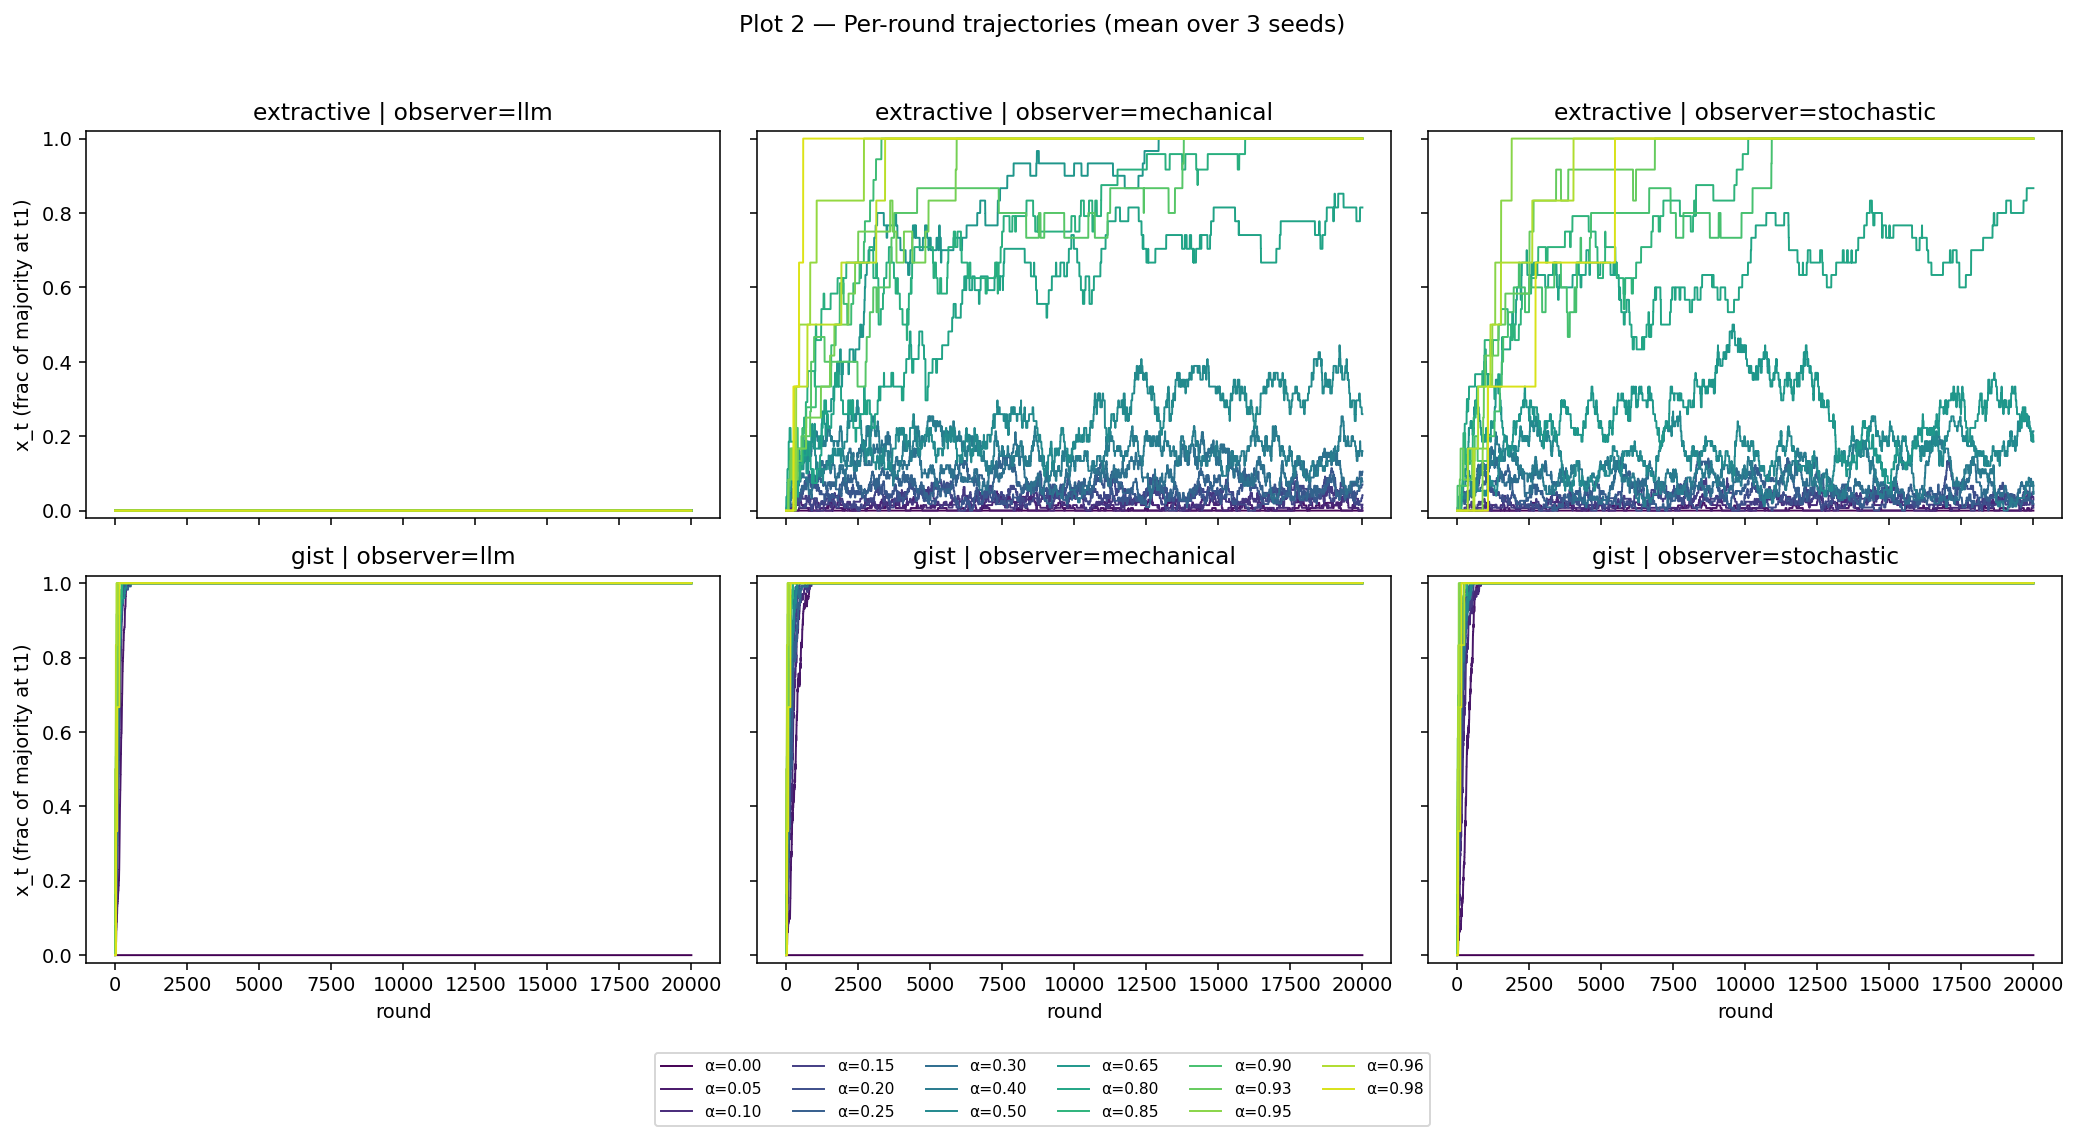
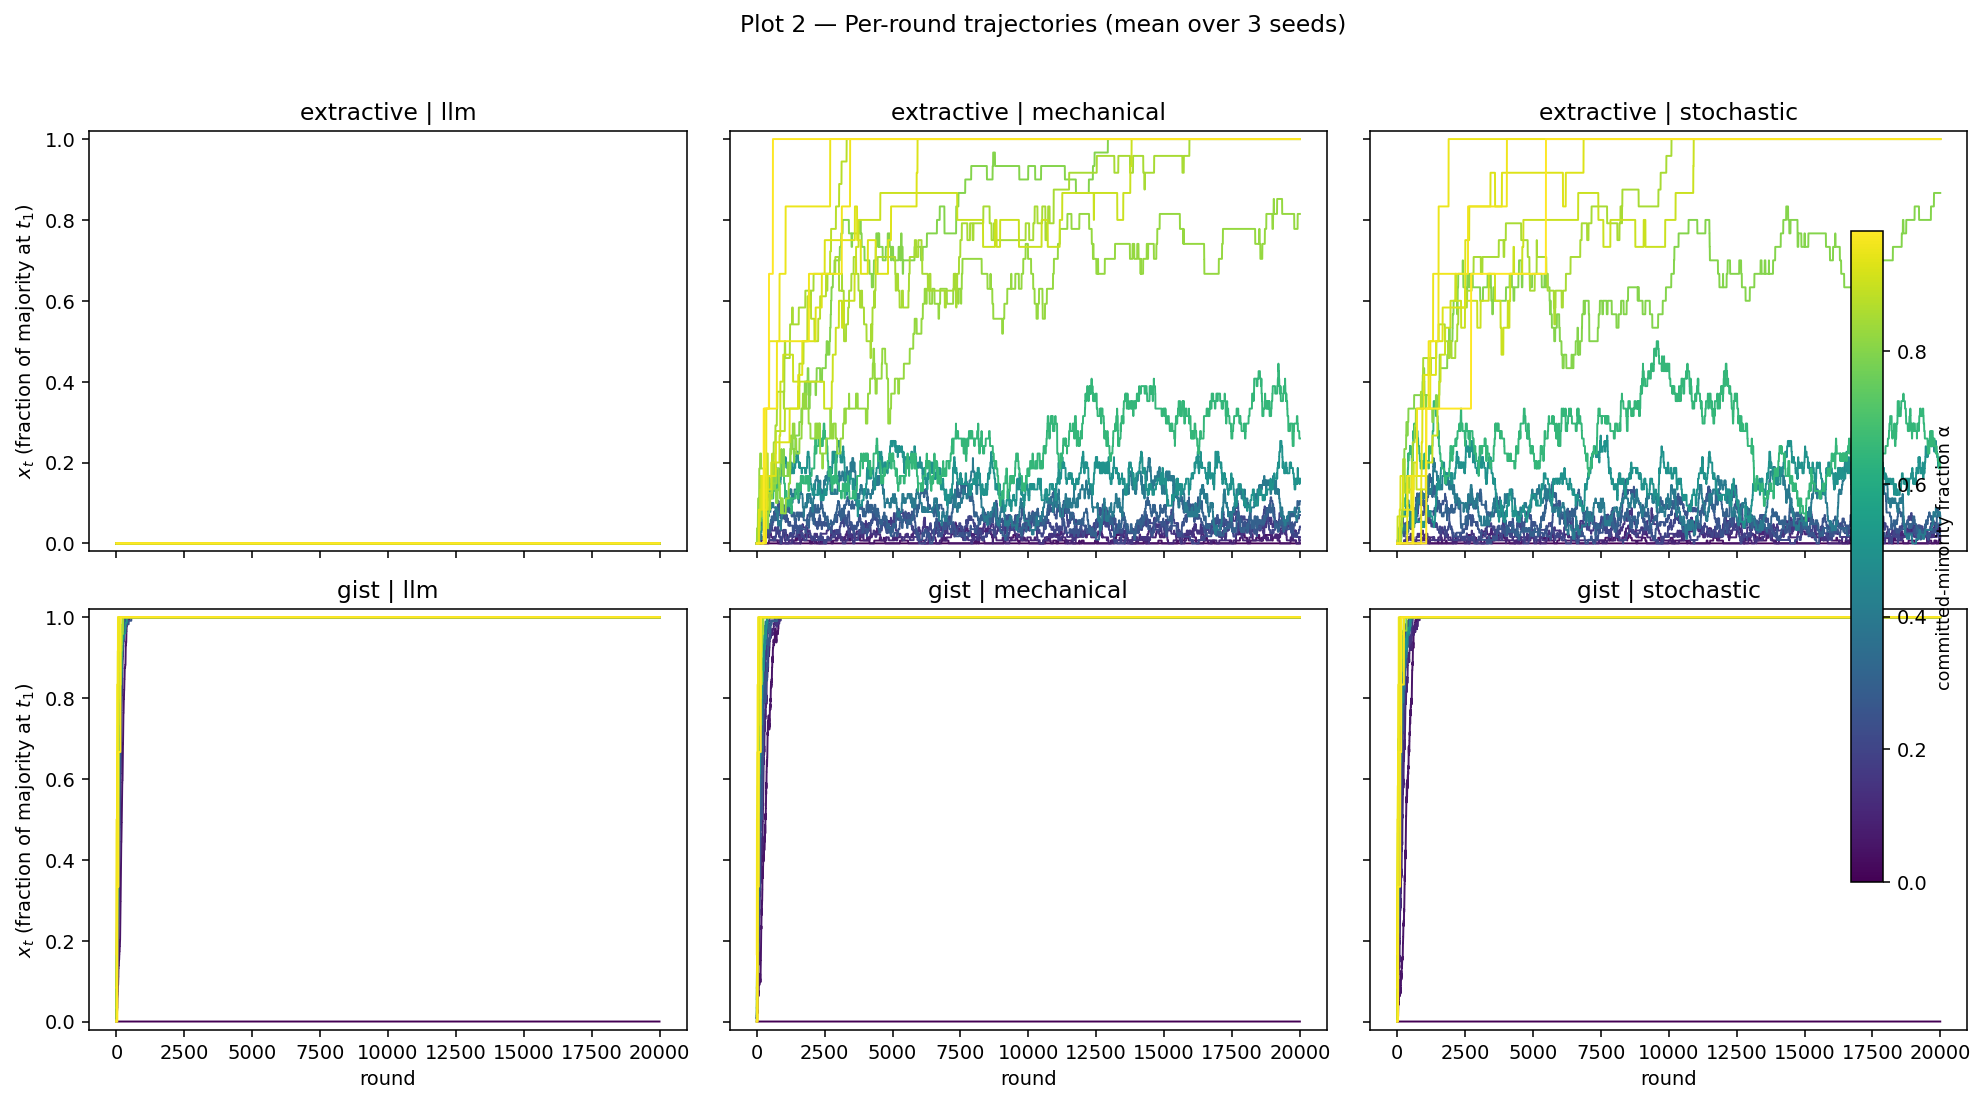
Add README, fix trajectory plot legend, remove prompt file
- README.md: setup and replication instructions
- 2_trajectories.png: replace per-line legend with colorbar showing alpha range
- prompt: removed (internal design doc, not needed for replication)

Changed region(s): [[0.0, 0.0925, 1.0, 0.9864], [0.3438, 0.0, 0.6875, 0.0308], [0.0312, 0.0925, 0.3438, 0.1541]]

diff --git a/analysis.py b/analysis.py
@@ -93,28 +93,37 @@ def plot_trajectories(sweep, N=20):
     fig, axes = plt.subplots(len(regimes), len(OBSERVERS),
                              figsize=(5 * len(OBSERVERS), 4 * len(regimes)),
                              sharex=True, sharey=True)
+
+    # Collect all valid alphas across all panels for a shared colormap scale
+    valid_alphas = sorted({a for obs in OBSERVERS for regime in regimes
+                           for a in sweep[obs][regime].keys()
+                           if not is_no_majority(a, N)})
+    norm = plt.Normalize(vmin=min(valid_alphas), vmax=max(valid_alphas))
+    cmap = plt.cm.viridis
+
     for r_i, regime in enumerate(regimes):
         for c_i, obs in enumerate(OBSERVERS):
             ax = axes[r_i, c_i]
-            alphas = sorted(sweep[obs][regime].keys())
-            cmap = plt.cm.viridis(np.linspace(0, 1, len(alphas)))
-            for color, a in zip(cmap, alphas):
+            for a in sorted(sweep[obs][regime].keys()):
                 if is_no_majority(a, N):
                     continue
                 stack = np.array([np.array(xs) for (_, xs) in sweep[obs][regime][a]])
-                ax.plot(stack.mean(axis=0), color=color, linewidth=1, label=f"α={a:.2f}")
-            ax.set_title(f"{regime} | observer={obs}")
+                ax.plot(stack.mean(axis=0), color=cmap(norm(a)), linewidth=1)
+            ax.set_title(f"{regime} | {obs}")
             ax.set_ylim(-0.02, 1.02)
             if r_i == len(regimes) - 1:
                 ax.set_xlabel("round")
             if c_i == 0:
-                ax.set_ylabel("x_t (frac of majority at t1)")
-    # one shared legend below
-    handles, labels = axes[0, 0].get_legend_handles_labels()
-    fig.legend(handles, labels, loc="lower center", ncol=6, fontsize=8,
-               bbox_to_anchor=(0.5, -0.02))
+                ax.set_ylabel(r"$x_t$ (fraction of majority at $t_1$)")
+
+    sm = plt.cm.ScalarMappable(cmap=cmap, norm=norm)
+    sm.set_array([])
+    cbar = fig.colorbar(sm, ax=axes.ravel().tolist(), orientation="vertical",
+                        fraction=0.02, pad=0.03)
+    cbar.set_label("committed-minority fraction α", fontsize=9)
+
     fig.suptitle("Plot 2 — Per-round trajectories (mean over 3 seeds)")
-    fig.tight_layout(rect=[0, 0.06, 1, 0.96])
+    fig.tight_layout(rect=[0, 0, 0.95, 0.96])
     fig.savefig(PLOTS / "2_trajectories.png", dpi=140, bbox_inches="tight")
     plt.close(fig)
 

diff --git a/README.md b/README.md
@@ -1,0 +1,90 @@
+# committed-minority-tipping
+
+Code for the paper "On the Tipping Behavior of LLM Agent Conventions".
+
+## What this is
+
+An agent-population simulation of committed-minority tipping dynamics in LLM
+systems. Agents hold one of two interpretations of a shared capability marker
+(`summarize`) and update based on observed task outcomes. A committed minority
+is locked to an alternative interpretation. The experiment tests whether the
+minority can tip the majority, and under what conditions.
+
+Two regimes:
+- **Extractive**: the downstream task requires verbatim extraction; the minority
+  interpretation is harmful (q0 > q1, predicted threshold alpha* = 0.876).
+- **Gist**: the downstream task requires paraphrased output; the minority
+  interpretation is useful (q1 > q0, predicted threshold alpha* = 0).
+
+Three observer rules: LLM (GPT-4o-mini YES/NO), mechanical (switch iff
+observed success), stochastic (switch with probability = rolling success rate).
+
+## Files
+
+| File | Description |
+|---|---|
+| `experiment.py` | Calibration and population sweep |
+| `analysis.py` | Loads results, generates plots and REPORT.md |
+| `articles.jsonl` | 30 news articles used as the task corpus |
+| `requirements.txt` | Python dependencies |
+| `results/calibration/` | Measured q0, q1 per regime |
+| `results/plots/` | All figures (9 PNG files) |
+| `results/summary.json` | Empirical alpha* and RMSE per (regime, observer) |
+
+## Setup
+
+```bash
+python3 -m venv .venv && source .venv/bin/activate
+pip install -r requirements.txt
+echo "sk-..." > conf          # OpenAI API key
+```
+
+Requires Python 3.10+. OpenAI API key must be in `./conf`.
+
+## Running
+
+```bash
+# Calibrate q0, q1 (cached after first run, ~$0.07)
+python experiment.py --stage calibrate
+
+# Main sweep: all three observer rules
+python experiment.py --stage sweep --observer llm       --N 50 --T 20000
+python experiment.py --stage sweep --observer mechanical --N 50 --T 20000
+python experiment.py --stage sweep --observer stochastic --N 50 --T 20000
+
+# Generate plots and REPORT.md
+python analysis.py
+```
+
+Temperature ablation (bypasses cache, ~$30):
+```bash
+python experiment.py --stage sweep --observer llm --N 50 --T 20000 --obs-temp 0.3
+python experiment.py --stage sweep --observer llm --N 50 --T 20000 --obs-temp 0.7
+python experiment.py --stage sweep --observer llm --N 50 --T 20000 --obs-temp 1.0
+```
+
+Local model observer (requires [Ollama](https://ollama.ai)):
+```bash
+ollama pull llama3.2:3b
+python experiment.py --stage sweep --observer ollama --obs-model llama3.2:3b \
+  --obs-temp 0.7 --N 50 --T 2000
+```
+
+## Caching
+
+All OpenAI calls are cached to `cache/` keyed by SHA-256 of (model, prompt,
+temperature, max_tokens). Reruns are free. The main sweeps are cache-saturated
+after the first run because the 30-article corpus produces a small number of
+unique prompts. Temperature ablation bypasses the cache (temperature is part
+of the key).
+
+## Cost
+
+| Run | Cost |
+|---|---|
+| Calibration + main sweeps | ~$0.07 (cache-saturated) |
+| Temperature ablation (3 temps x T=20000) | ~$30 |
+| Local model (Ollama) | free |
+
+The sweep traces (1.3 GB of JSONL) are excluded from this repo. Everything
+else is included; plots and calibration data can be verified without rerunning.